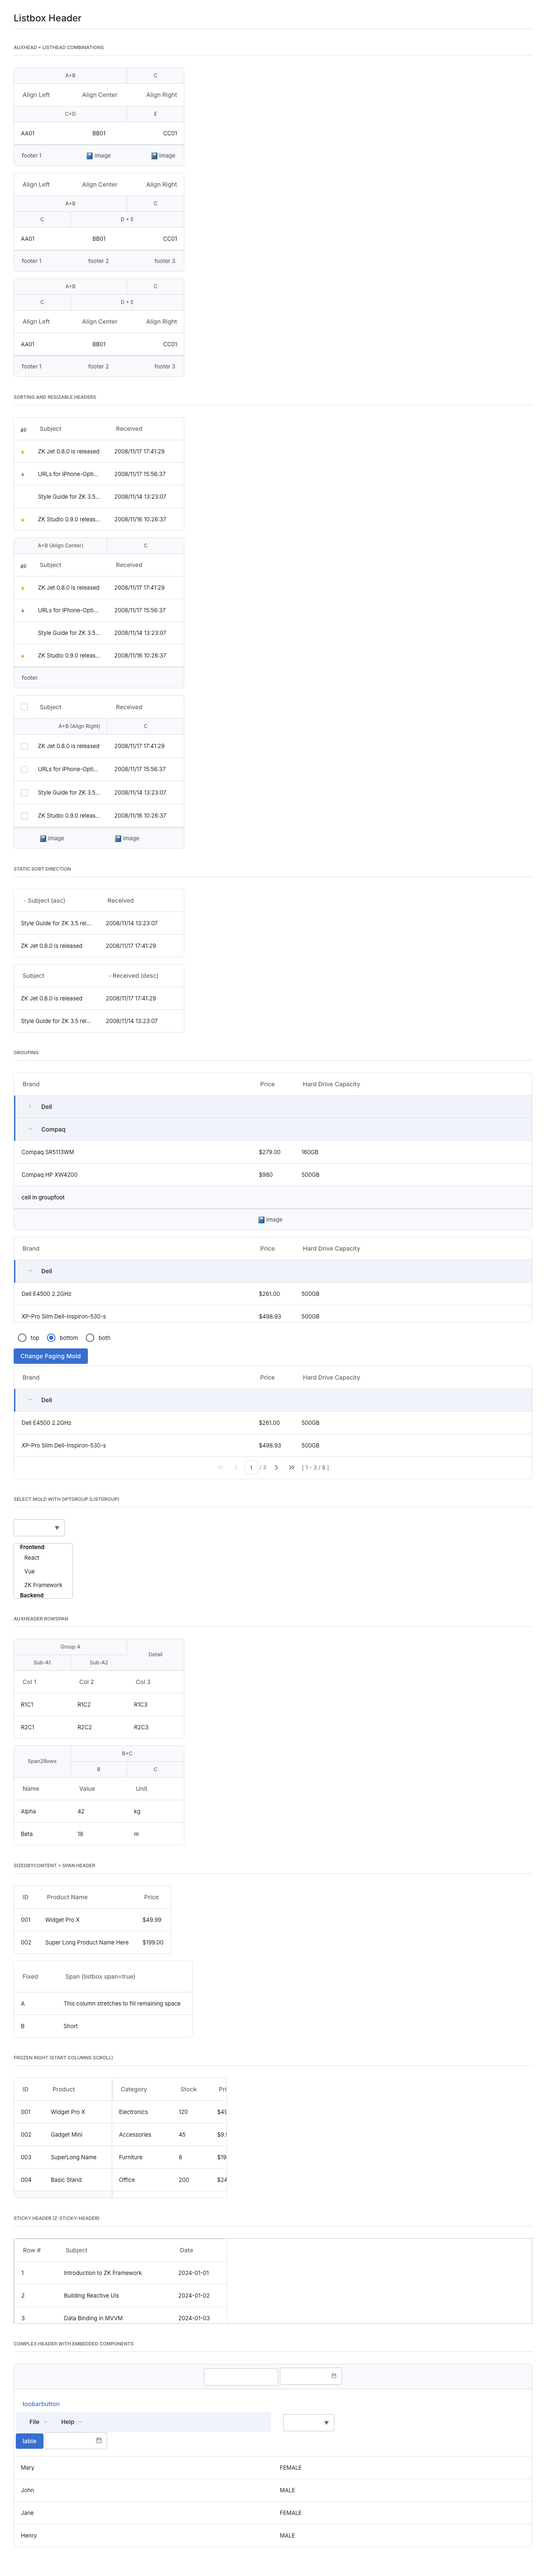
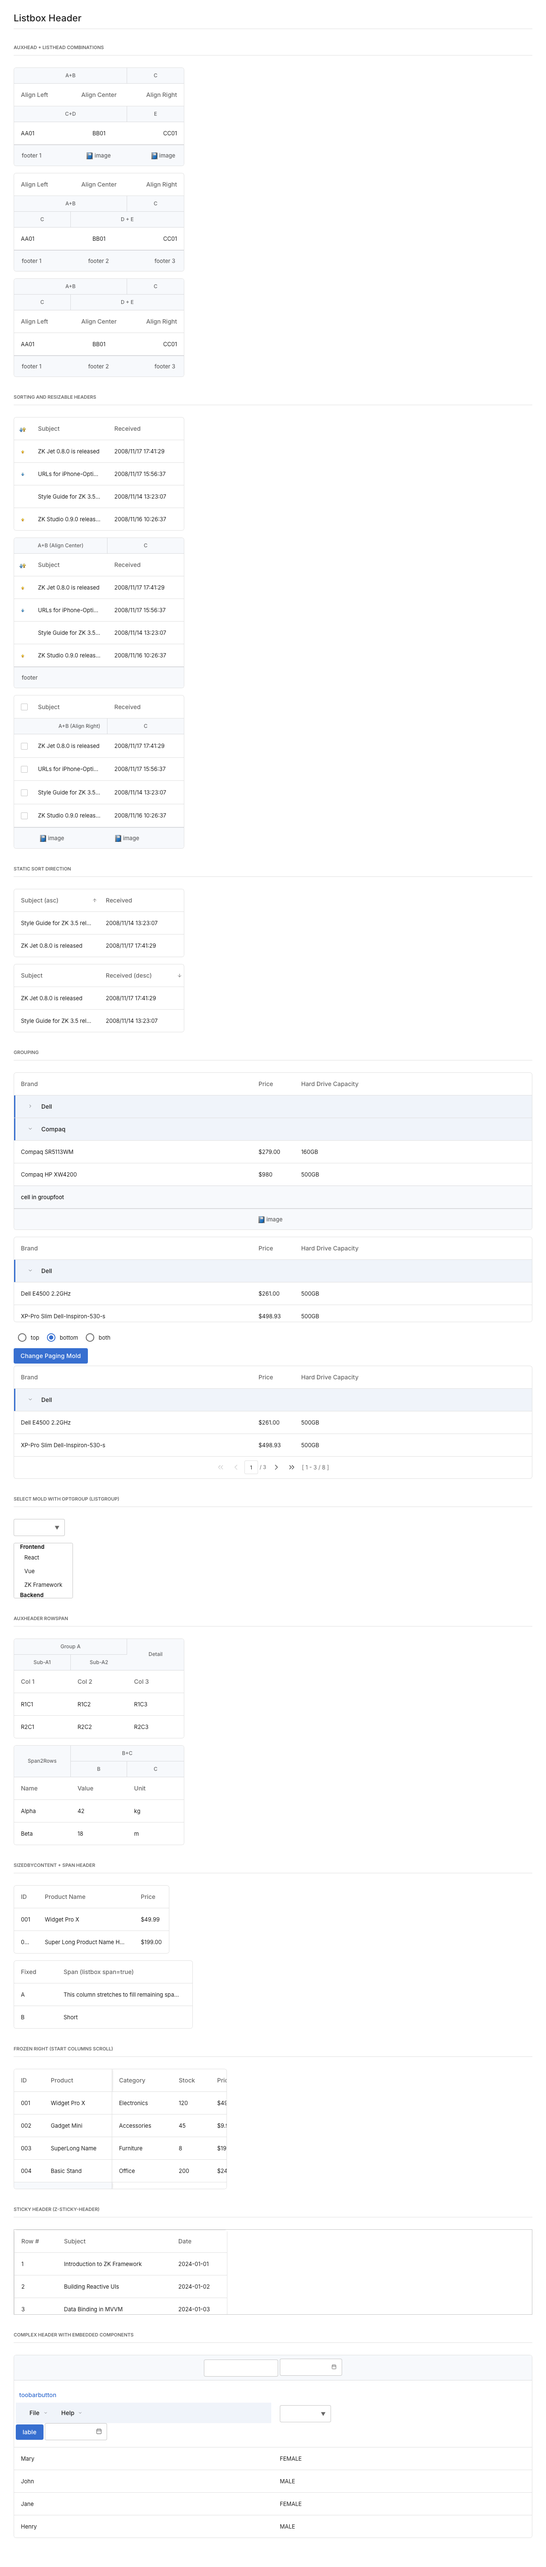
ZK-6112: draw the listgroup accent bar as an inset shadow so grouped rows keep the header's text x
Also re-captures the listbox and tree baselines affected by the sort icon change.

diff --git a/zul/src/main/resources/web/js/zul/sel/css/listbox.css b/zul/src/main/resources/web/js/zul/sel/css/listbox.css
@@ -334,8 +334,18 @@
 }
 
 .z-listgroup > td:first-child {
-    border-left: 3px solid var(--zk-color-primary);
-    padding-left: calc(var(--zk-spacing-4) - 3px);
+    box-shadow: inset 3px 0 0 var(--zk-color-primary);
+    padding-left: var(--zk-spacing-4);
+}
+
+/* An inset shadow takes no layout space (a border here shifts every collapsed-border
+   row 1.5px right) but forced colors drops box-shadow, so fall back to a real border. */
+@media (forced-colors: active) {
+    .z-listgroup > td:first-child {
+        box-shadow: none;
+        border-left: 3px solid Highlight;
+        padding-left: calc(var(--zk-spacing-4) - 3px);
+    }
 }
 
 /* Group open/close toggle arrow */
